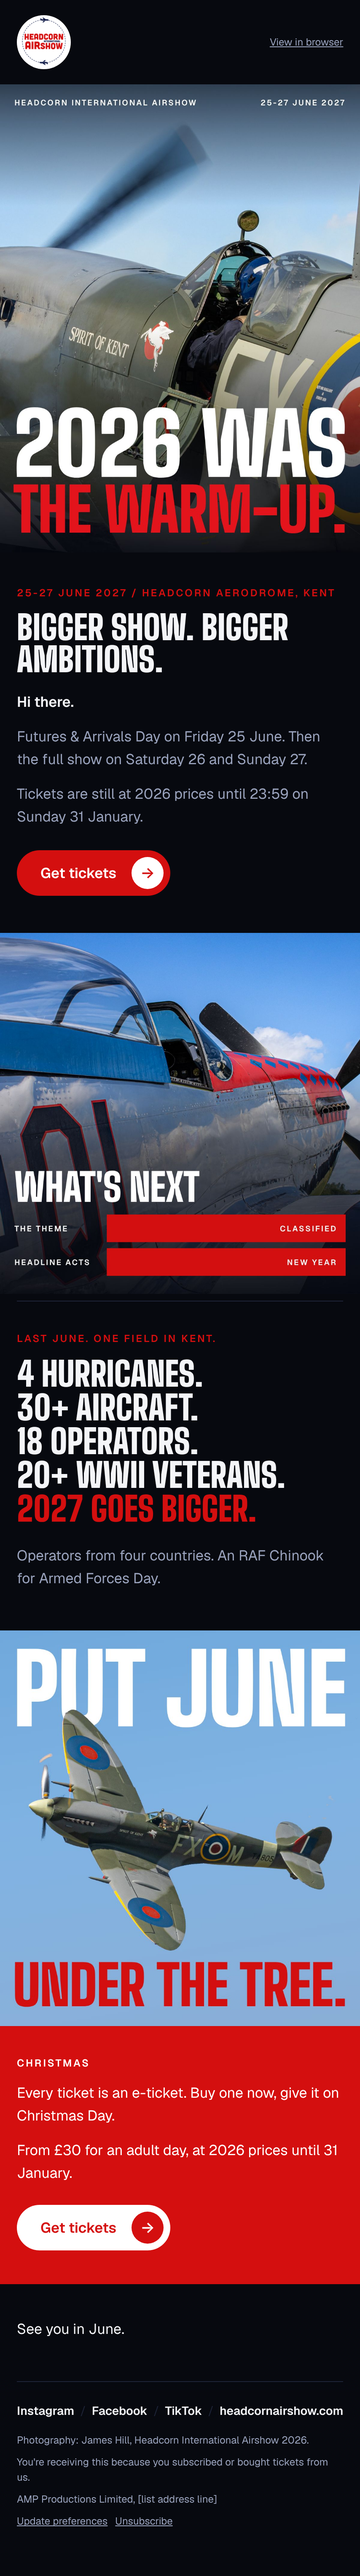
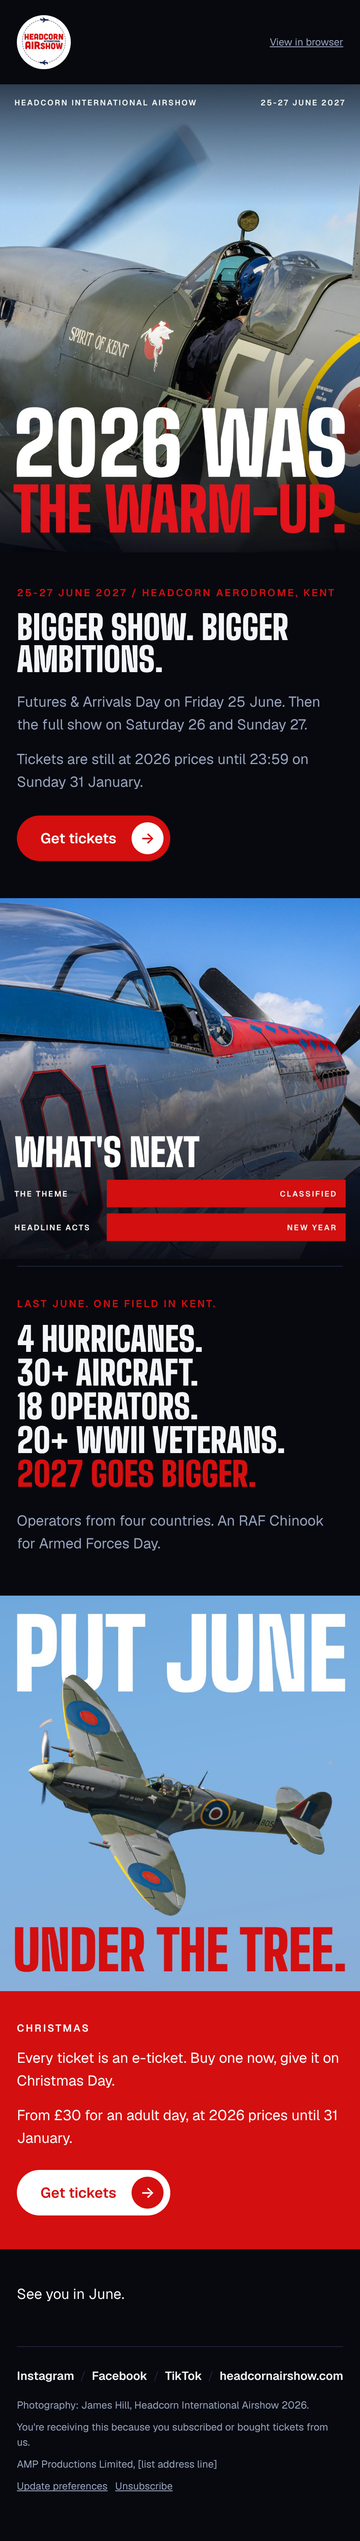
Remove first-name greeting from Email 3
Claude-Session: https://claude.ai/code/session_01RYv22kBDRZPB5vTuR4e7go

diff --git a/build/email-3-reintro-xmas.html b/build/email-3-reintro-xmas.html
@@ -47,7 +47,7 @@
 <td valign="middle" align="right" style="-webkit-text-size-adjust: 100%; -ms-text-size-adjust: 100%; mso-table-lspace: 0pt; mso-table-rspace: 0pt; border-collapse: collapse; text-align: right; font-family: Geist, 'Helvetica Neue', Arial, sans-serif; font-size: 12px; line-height: 17px;"><a href="*|ARCHIVE|*" target="_blank" style="-webkit-text-size-adjust: 100%; -ms-text-size-adjust: 100%; color: #9AA3BD; text-decoration: underline;">View in browser</a></td>
 </tr></table></td></tr>
 <tr><td style="-webkit-text-size-adjust: 100%; -ms-text-size-adjust: 100%; mso-table-lspace: 0pt; mso-table-rspace: 0pt; border-collapse: collapse; padding: 0px 0 0 0;"><div mc:edit="art_hero"><table role="presentation" cellpadding="0" cellspacing="0" border="0" width="100%" style="-webkit-text-size-adjust: 100%; -ms-text-size-adjust: 100%; mso-table-lspace: 0pt; mso-table-rspace: 0pt; border-collapse: collapse; width: 100%;"><tr><td bgcolor="#0E1222" style="-webkit-text-size-adjust: 100%; -ms-text-size-adjust: 100%; mso-table-lspace: 0pt; mso-table-rspace: 0pt; border-collapse: collapse; background-color: #0E1222;"><a href="https://headcornairshow.com/tickets?utm_source=mailchimp&utm_medium=email&utm_campaign=hia27_reintro_xmas&utm_content=hero" target="_blank" style="-webkit-text-size-adjust: 100%; -ms-text-size-adjust: 100%; display: block; text-decoration: none;"><img src="assets/art_hero.jpg" width="600" height="780" alt="2026 was the warm-up. Headcorn International Airshow, 25-27 June 2027." style="display: block; width: 100%; max-width: 600px; height: auto; border: 0; outline: none; text-decoration: none; font-family: 'Big Shoulders Display', Impact, 'Arial Narrow Bold', sans-serif; font-weight: 900; font-size: 40px; line-height: 44px; text-transform: uppercase; color: #F4F5F8; -ms-interpolation-mode: bicubic;"></a></td></tr></table></div></td></tr>
-<tr><td class="px" style="-webkit-text-size-adjust: 100%; -ms-text-size-adjust: 100%; mso-table-lspace: 0pt; mso-table-rspace: 0pt; border-collapse: collapse; padding: 40px 24px 44px 24px;"><div mc:edit="intro"><p style="-webkit-text-size-adjust: 100%; -ms-text-size-adjust: 100%; margin: 0 0 14px 0; font-family: Geist, 'Helvetica Neue', Arial, sans-serif; font-size: 12px; line-height: 16px; font-weight: 600; letter-spacing: 0.16em; text-transform: uppercase; color: #D40F0F;">25-27 June 2027 / Headcorn Aerodrome, Kent</p><p class="h2" style="-webkit-text-size-adjust: 100%; -ms-text-size-adjust: 100%; margin: 0 0 18px 0; font-family: 'Big Shoulders Display', Impact, 'Arial Narrow Bold', sans-serif; font-weight: 900; font-size: 54px; line-height: 50px; text-transform: uppercase; color: #F4F5F8; mso-line-height-rule: exactly;">Bigger show. Bigger ambitions.</p><p style="-webkit-text-size-adjust: 100%; -ms-text-size-adjust: 100%; margin: 0 0 14px 0; font-family: Geist, 'Helvetica Neue', Arial, sans-serif; font-size: 17px; line-height: 27px; font-weight: 600; color: #F4F5F8;">*|IF:FNAME|*Hi *|FNAME|*.*|ELSE:|*Hi there.*|END:IF|*</p><p style="-webkit-text-size-adjust: 100%; -ms-text-size-adjust: 100%; margin: 0 0 14px 0; font-family: Geist, 'Helvetica Neue', Arial, sans-serif; font-size: 17px; line-height: 27px; color: #9AA3BD;">Futures &amp; Arrivals Day on Friday 25 June. Then the full show on Saturday 26 and Sunday 27.</p><p style="-webkit-text-size-adjust: 100%; -ms-text-size-adjust: 100%; margin: 0 0 14px 0; font-family: Geist, 'Helvetica Neue', Arial, sans-serif; font-size: 17px; line-height: 27px; color: #9AA3BD;">Tickets are still at 2026 prices until 23:59 on Sunday 31 January.</p><div style="padding-top:12px;"><!--[if mso]>
+<tr><td class="px" style="-webkit-text-size-adjust: 100%; -ms-text-size-adjust: 100%; mso-table-lspace: 0pt; mso-table-rspace: 0pt; border-collapse: collapse; padding: 40px 24px 44px 24px;"><div mc:edit="intro"><p style="-webkit-text-size-adjust: 100%; -ms-text-size-adjust: 100%; margin: 0 0 14px 0; font-family: Geist, 'Helvetica Neue', Arial, sans-serif; font-size: 12px; line-height: 16px; font-weight: 600; letter-spacing: 0.16em; text-transform: uppercase; color: #D40F0F;">25-27 June 2027 / Headcorn Aerodrome, Kent</p><p class="h2" style="-webkit-text-size-adjust: 100%; -ms-text-size-adjust: 100%; margin: 0 0 18px 0; font-family: 'Big Shoulders Display', Impact, 'Arial Narrow Bold', sans-serif; font-weight: 900; font-size: 54px; line-height: 50px; text-transform: uppercase; color: #F4F5F8; mso-line-height-rule: exactly;">Bigger show. Bigger ambitions.</p><p style="-webkit-text-size-adjust: 100%; -ms-text-size-adjust: 100%; margin: 0 0 14px 0; font-family: Geist, 'Helvetica Neue', Arial, sans-serif; font-size: 17px; line-height: 27px; color: #9AA3BD;">Futures &amp; Arrivals Day on Friday 25 June. Then the full show on Saturday 26 and Sunday 27.</p><p style="-webkit-text-size-adjust: 100%; -ms-text-size-adjust: 100%; margin: 0 0 14px 0; font-family: Geist, 'Helvetica Neue', Arial, sans-serif; font-size: 17px; line-height: 27px; color: #9AA3BD;">Tickets are still at 2026 prices until 23:59 on Sunday 31 January.</p><div style="padding-top:12px;"><!--[if mso]>
 <v:roundrect xmlns:v="urn:schemas-microsoft-com:vml" xmlns:w="urn:schemas-microsoft-com:office:word" href="https://headcornairshow.com/tickets?utm_source=mailchimp&utm_medium=email&utm_campaign=hia27_reintro_xmas&utm_content=intro_cta" style="height:54px;v-text-anchor:middle;width:219px;" arcsize="50%" stroke="f" fillcolor="#D40F0F">
 <w:anchorlock/>
 <center style="color:#FFFFFF;font-family:Arial,sans-serif;font-size:17px;font-weight:bold;">Get tickets&nbsp;&nbsp;&#8594;</center>

diff --git a/src/emails/email-3-reintro-xmas.js b/src/emails/email-3-reintro-xmas.js
@@ -65,7 +65,6 @@ module.exports = {
       key: 'intro',
       eyebrow: '25-27 June 2027 / Headcorn Aerodrome, Kent',
       title: 'Bigger show. Bigger ambitions.',
-      greeting: true,
       paragraphs: [
         'Futures &amp; Arrivals Day on Friday 25 June. Then the full show on Saturday 26 and Sunday 27.',
         'Tickets are still at 2026 prices until 23:59 on Sunday 31 January.',
